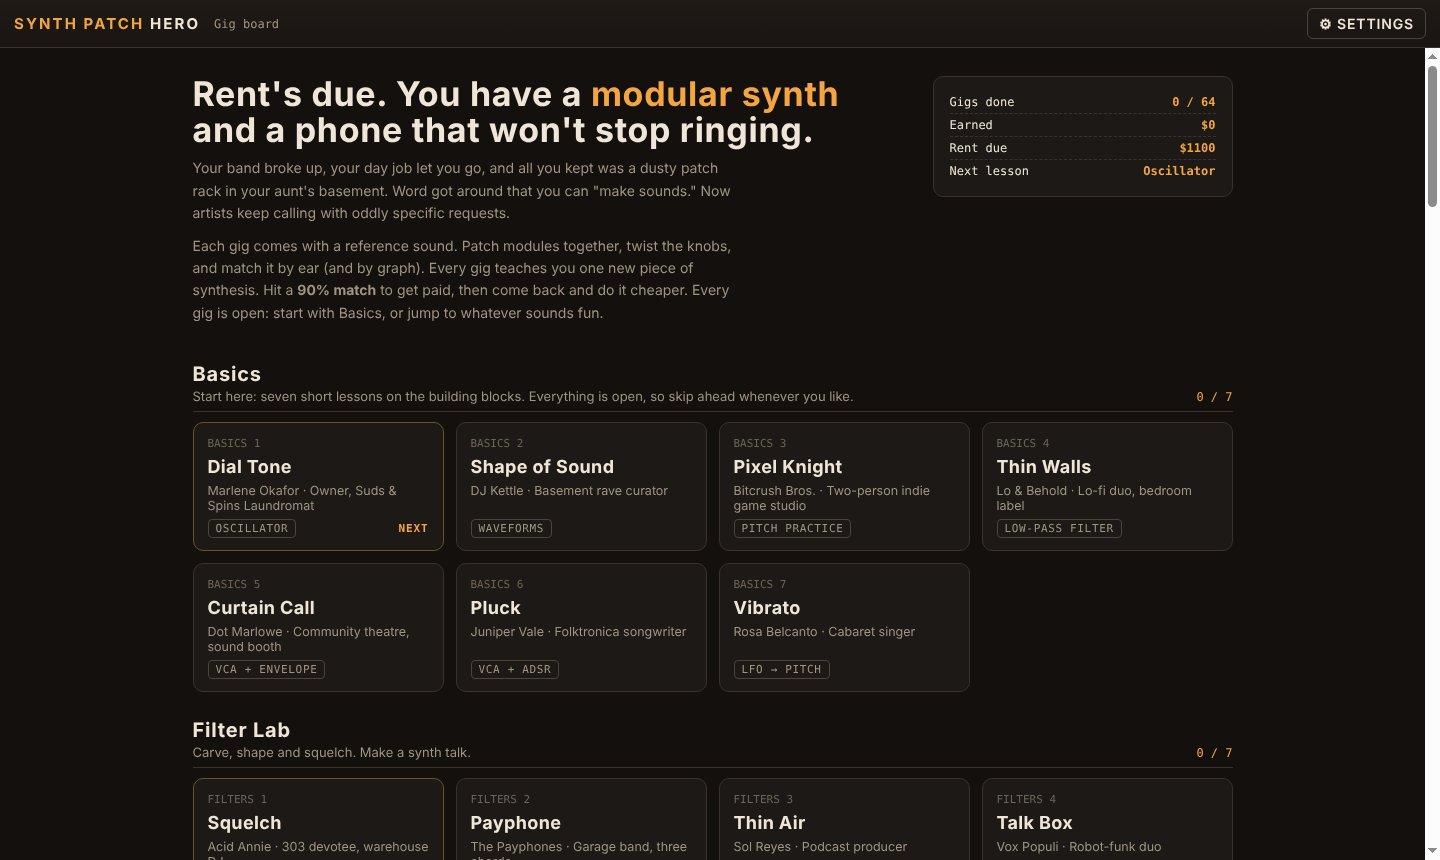
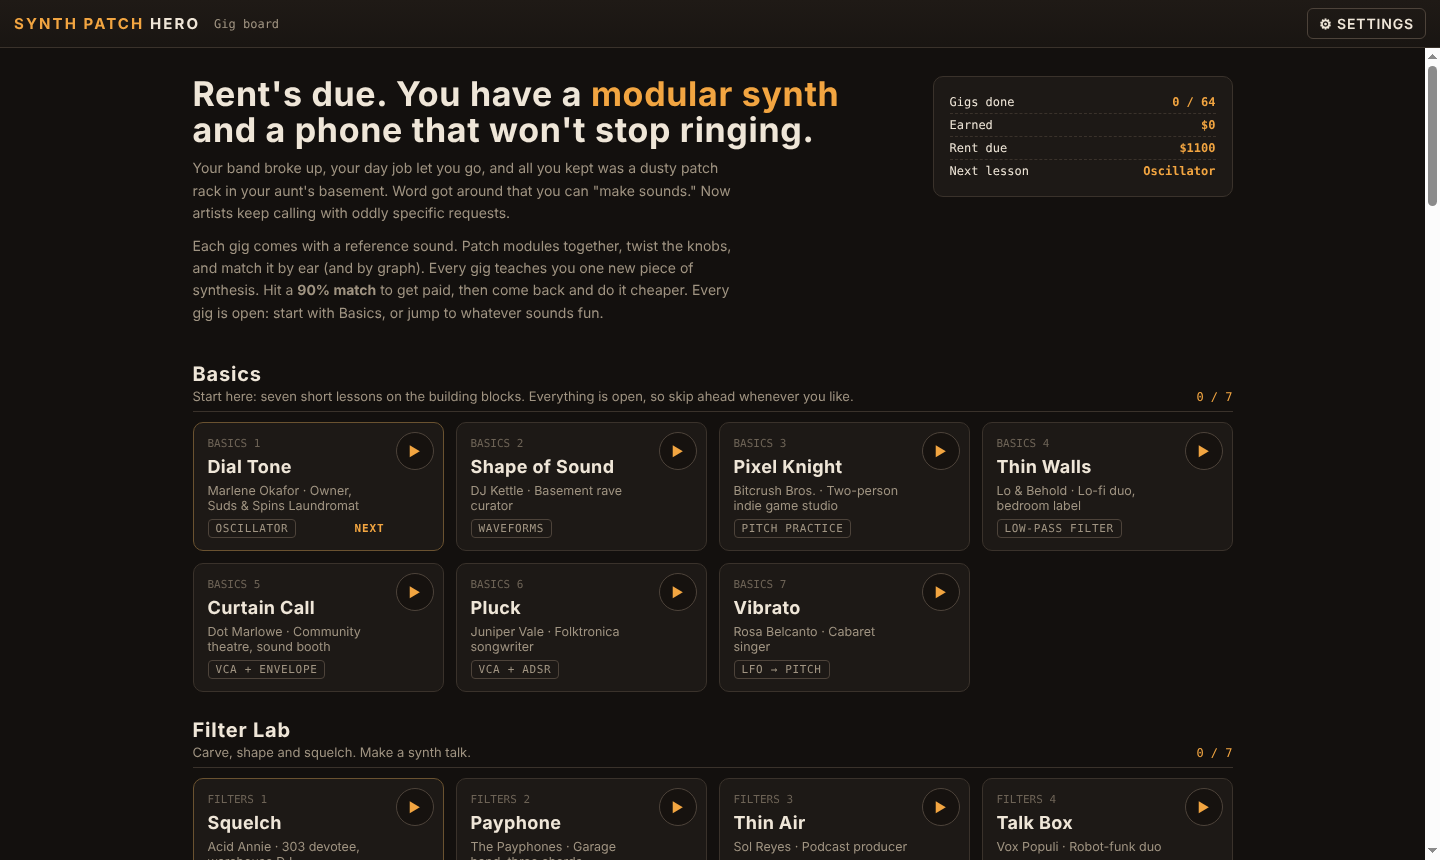
Preview a gig's target sound from the gig board
Each gig card gets a round ▶ button that plays the client's target sound
without opening the gig. Tap again to stop; starting another preview or
opening a gig stops it. It's a sibling of the card (so it never opens the
gig) and a haptic tap target on iPhone. Tests cover play, stop, switching
and stop-on-open.

Claude-Session: https://claude.ai/code/session_01D5scM1CNbwhd8cCv6p5T59

diff --git a/js/ui.js b/js/ui.js
@@ -5,6 +5,17 @@
 /* =====================================================================
    BOARD
    ===================================================================== */
+/* Gig board preview: ▶ on each card plays the client's target sound; tap again (or another ▶) to stop. */
+let previewing=null;
+function stopPreview(){ if(!previewing) return; clearTimeout(previewing.t); previewing.b.classList.remove('lit'); previewing.b.setAttribute('aria-label','Preview '+previewing.L.title); previewing.b.querySelector('.pvIcon').textContent='▶'; previewing=null; stopOneShots(); }
+function previewButton(L){
+  let b=el('button',{class:'gigPv',title:'Hear the target sound','aria-label':'Preview '+L.title}); b.innerHTML='<span class="pvIcon">▶</span>';
+  b=Haptics.upgrade(b);
+  b.addEventListener('click',e=>{ e.stopPropagation(); const mine=previewing&&previewing.b===b; stopPreview(); if(mine) return;
+    playFixed(targetPatch(L),L,null); b.classList.add('lit'); b.querySelector('.pvIcon').textContent='■'; b.setAttribute('aria-label','Stop preview');
+    previewing={b,L,t:setTimeout(stopPreview,(L.dur+0.1)*1000)}; Haptics.select(); });
+  return b;
+}
 function showBoard(){
   allNotesOff(); stopOneShots(); S.pick=null; showPatchbar(); $('#sheet').hidden=true;
   S.li=-1; S.L=null; S.patch=null;
@@ -27,7 +38,8 @@ function showBoard(){
       b.innerHTML=`<div class="num">${c.short} ${k+1}${L.challenge?' · <span class="chal">CHALLENGE</span>':''}</div><div class="title">${L.title}</div>
         <div class="client">${L.client} · ${L.role}</div>
         <div class="concept"><span class="tag">${L.concept}</span>${sv?`<span class="stamp">PAID · ${sv.cost}¢ · ${Math.round(sv.match)}%${progress.played&&progress.played[L.id]?' · ♪':''}${progress.helped&&progress.helped[L.id]?' · helped':''}</span>`:i===nxt?'<span class="nextTag">NEXT</span>':''}</div>`;
-      b=Haptics.upgrade(b); b.addEventListener('click',()=>openLevel(i)); grid.appendChild(b);
+      b=Haptics.upgrade(b); b.addEventListener('click',()=>{ stopPreview(); openLevel(i); });
+      const w=el('div',{class:'gigWrap'}); w.appendChild(b); w.appendChild(previewButton(L)); grid.appendChild(w);
     });
     sec.appendChild(grid); g.appendChild(sec);
   });

diff --git a/css/style.css b/css/style.css
@@ -36,7 +36,14 @@ button{font:inherit;color:inherit;cursor:pointer;touch-action:manipulation}
 .sectionLabel{font-family:var(--head);letter-spacing:.16em;font-size:12px;color:var(--faint);text-transform:uppercase;margin:22px 0 10px}
 .gigs{display:grid;grid-template-columns:repeat(auto-fill,minmax(240px,1fr));gap:12px}
 .gig{position:relative;text-align:left;background:var(--panel);border:1px solid var(--line);border-radius:10px;padding:14px 14px 12px;min-height:128px;display:flex;flex-direction:column;gap:6px;transition:transform .12s,border-color .12s}
-.gig:hover:not(:disabled){border-color:var(--amber);transform:translateY(-2px)}
+.gig:hover:not(:disabled){border-color:var(--amber)}
+.gigWrap{position:relative;display:flex;transition:transform .12s}
+.gigWrap:hover{transform:translateY(-2px)}
+.gigWrap>.gig{flex:1;min-width:0;padding-right:58px}
+.gigPv{position:absolute;top:10px;right:10px;width:38px;height:38px;border-radius:50%;border:1px solid var(--line2);background:#16120f;color:var(--amber);display:flex;align-items:center;justify-content:center;font-size:13px;cursor:pointer;z-index:1;padding:0}
+.gigPv:hover{border-color:var(--amber)}
+.gigPv.lit{background:var(--amber);color:#1a130b;border-color:var(--amber)}
+.gigPv .pvIcon{pointer-events:none;line-height:1}
 .gig:disabled{opacity:.42;cursor:not-allowed}
 .gig .num{font-family:var(--mono);font-size:11px;color:var(--faint)}
 .gig .title{font-family:var(--head);font-weight:700;font-size:18px;letter-spacing:.02em}

diff --git a/docs/design.md b/docs/design.md
@@ -5,7 +5,7 @@
 - **Stack:** plain HTML/CSS/JS with Web Audio and no build step. `index.html` loads `css/style.css` and `js/*.js`.
 
 ## Core loop
-Gig board → client brief + manual page → fill the slot board with modules and patch them → compare against the target in the always-visible compare panel → match ≥ 90% → Send → paid → optimize cost (¢) to beat par.
+Gig board (▶ on each card previews the client's target sound) → client brief + manual page → fill the slot board with modules and patch them → compare against the target in the always-visible compare panel → match ≥ 90% → Send → paid → optimize cost (¢) to beat par.
 
 ## Screen layout (since 2026-11-21)
 Feedback that drove it: too much scrolling between panels; you must always be able to compare yours with the target and see the scope; the keyboard was a distraction while solving; the board needed zoom; OUTPUT should never need hunting for; it should be obvious when a module is missing.
@@ -92,7 +92,7 @@ Feedback that drove it: difficulty rises fast (especially the VCA lesson); playe
 Yellow cables = audio, blue = control. Modulation depth lives on the destination (MOD AMT knobs). Bipolar knobs fill from the centre. Knobs and jacks unlock per lesson. Modules with five or more knobs use a denser knob layout so they fit a slot.
 
 ## Curriculum (64 gigs in 14 chapters + Free Jam)
-Structure: **Basics** (7 gigs) is the suggested starting point, followed by thirteen **themes**. **Every gig is open from the start** (playtest, 2026-11-22: let people explore and skip ahead); progress is still recorded per gig. The board suggests an order: each chapter marks its first unsolved gig as **NEXT**, and the ledger's "Next lesson" is the earliest unsolved gig. Each theme ends in exactly one **challenge** gig (`challenge:true`), which hides the parts list and missing-part names (showing only "N/M modules") and gives guiding questions instead of steps.
+Structure: **Basics** (7 gigs) is the suggested starting point, followed by thirteen **themes**. **Every gig is open from the start** (playtest, 2026-11-22: let people explore and skip ahead); progress is still recorded per gig. Each gig card has a round **▶ preview** button that plays the target sound right on the board, so players can browse by ear before picking a gig. Tap again to stop. Starting another preview or opening a gig stops the current one. It sits beside the card rather than inside it, so it never opens the gig, and on iPhone it's its own haptic tap target. The board suggests an order: each chapter marks its first unsolved gig as **NEXT**, and the ledger's "Next lesson" is the earliest unsolved gig. Each theme ends in exactly one **challenge** gig (`challenge:true`), which hides the parts list and missing-part names (showing only "N/M modules") and gives guiding questions instead of steps.
 - **Basics:** Dial Tone (oscillator, pitch, cables) · Shape of Sound (waveforms) · Pixel Knight (intervals) · Thin Walls (low-pass) · Curtain Call (VCA + envelope: sustain & release, with OSC → VCA → OUT pre-wired) · Pluck (all four ADSR stages, built from scratch) · Vibrato (LFO, modulation)
 - **Filter Lab:** Squelch (resonance) · Payphone (filter types) · Thin Air (high-pass) · Talk Box (formants) · The Scoop (notch) · Upside Down (inverted filter envelope) · ★ Acid Test
 - **Bass:** Sub Club (sub bass) · Wow Bass (filter envelope, presets) · Pluck Bass · Wobble (LFO → filter) · ★ Reese

diff --git a/README.md b/README.md
@@ -17,7 +17,7 @@ There's no build step and there are no dependencies: it's plain HTML, CSS and Ja
 
 ## How it plays
 
-1. **Pick a gig.** Read the client's brief and the manual page for that lesson.
+1. **Pick a gig.** Tap ▶ on any gig card to hear what the client wants before you take it on. Then open it and read the brief and the manual page for that lesson.
 2. **Fill the board.** OUTPUT sits in the top-right slot, and some gigs start with **preset** modules already wired. Tap an empty slot (or a palette button) to add a module. The **Parts** chips (`FILTER 0/1`) tell you what's still missing.
 3. **Patch.** Drag from jack to jack, or tap one jack and then another. Yellow cables carry audio, blue cables carry control signals. Click a cable to unplug it.
 4. **Tune.** Drag knobs up and down (Shift for fine control), or **click a knob** for a precise editor with fine −/+ steps and arrow keys.
